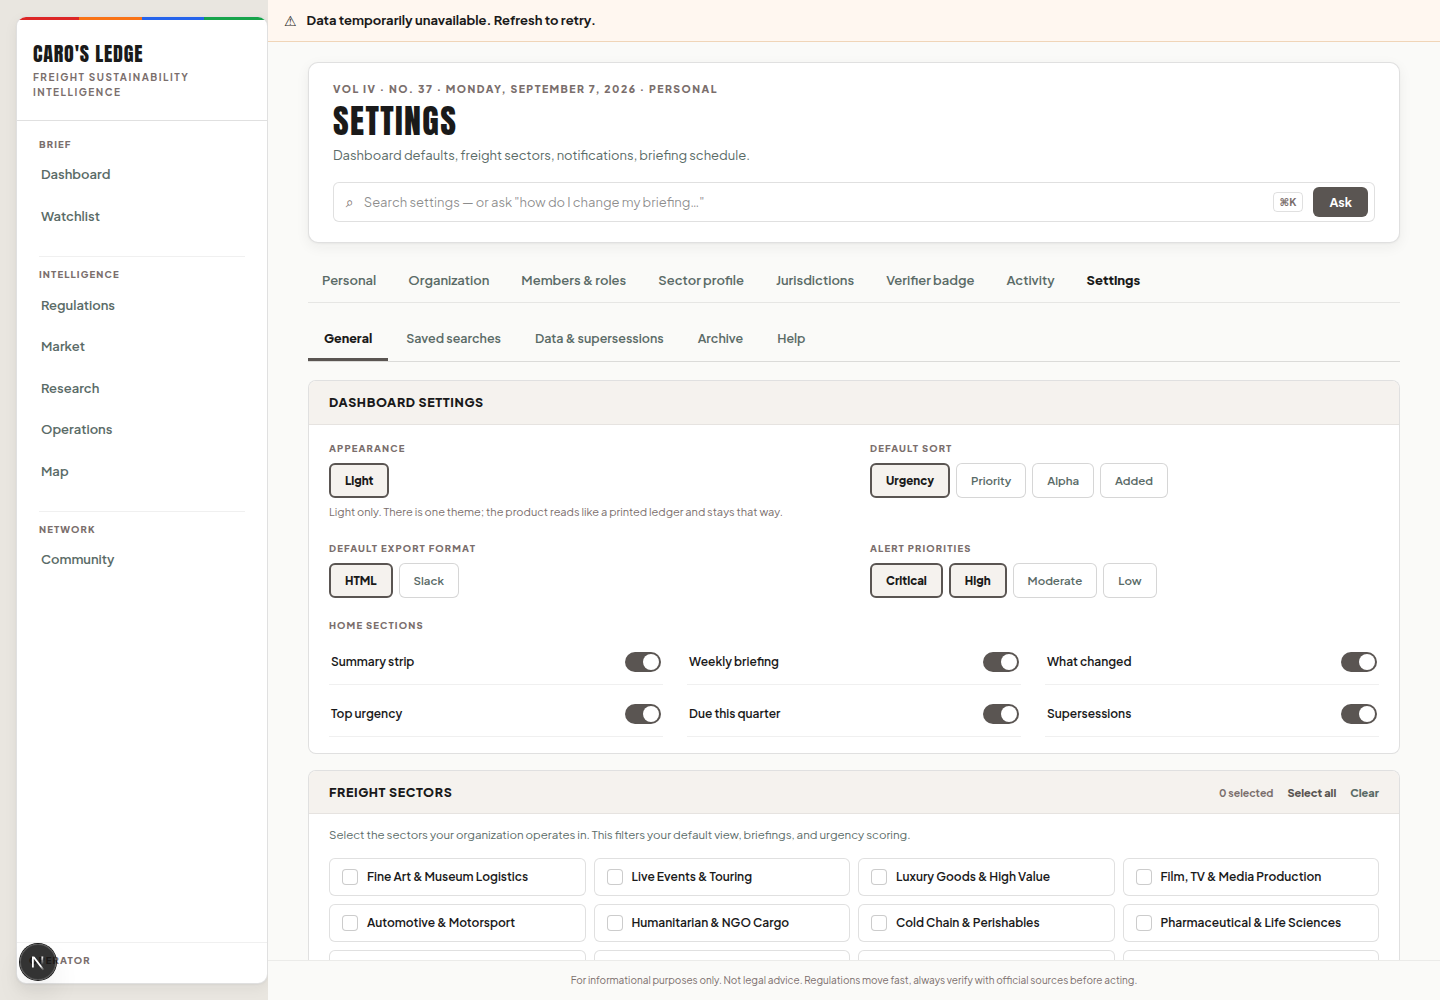
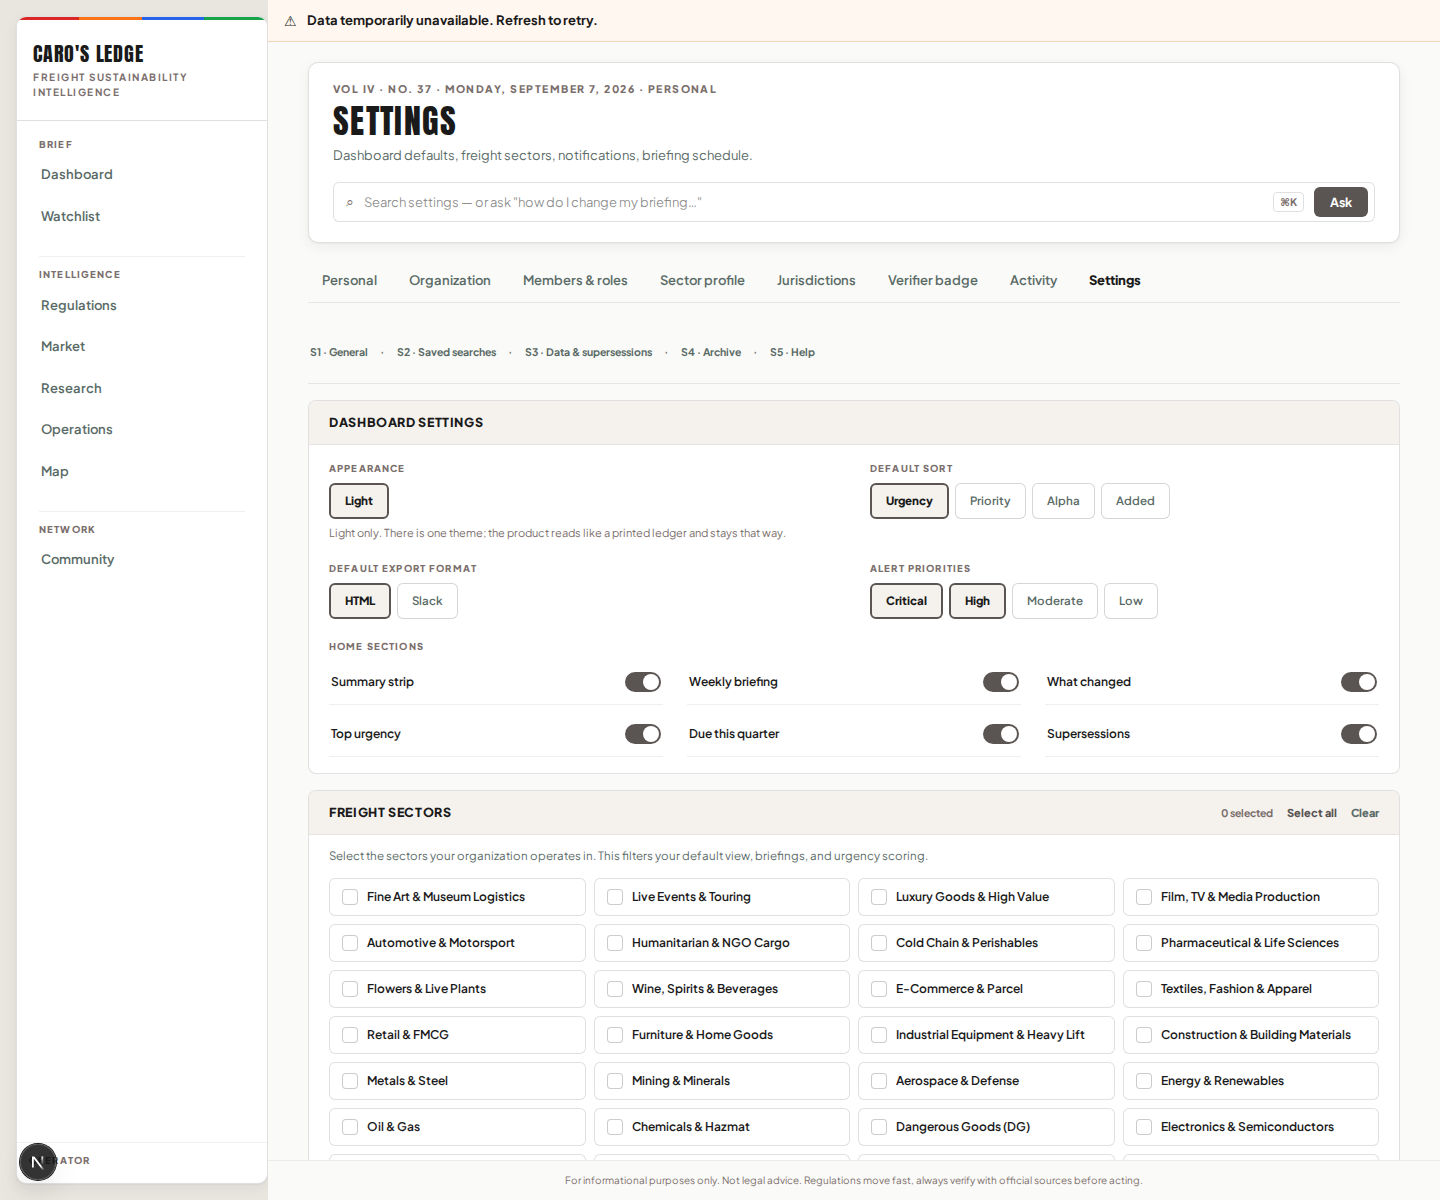
docs: RULINGS fold + R9 settings section-index screenshot
Copies rulings R1-R10 (operator, via Claude Design, 2026-09-07) into
DEVIATION-LOG.md's fold verbatim, marks the superseded "Settings —
General/Saved/Data/Archive/Help" row, and logs the R9 change (SectionIndex
replacing the old sub-nav) with its own deviation: R9's "Archive's viewer
stays a page under Data" / "Help stays a route" clauses describe a route
shape neither the artboard set nor the current app has built, so both stay
inline anchored sections as they were, flagged for an operator ruling.

Re-captured built/15-settings.png at 1440px (next dev, env-only
UI_SCREENSHOT_BYPASS auth bypass, reverted before this commit — verified by
`grep -rn UI_SCREENSHOT_BYPASS src/` returning nothing): shows the sticky
S1..S5 SectionIndex directly under the merged Account tab row, single tab
row on the page, matching R9. Compared against 15-settings.png (the
artboard, which predates R9 and still shows no second-level nav at all) —
the difference is R9 itself, not a build defect.

Claude-Session: https://claude.ai/code/session_011PrexRRmd9zJ3cBeMDJw94

diff --git a/docs/design/handoff-2026-09-06/DEVIATION-LOG.md b/docs/design/handoff-2026-09-06/DEVIATION-LOG.md
@@ -5,6 +5,66 @@ belongs here, not in a page's stylesheet (README "Overview"). Includes cases whe
 the design shows does not exist in the app's data yet and is rendered via the Absence
 convention instead.
 
+## RULINGS (operator, via Claude Design, 2026-09-07)
+
+Design rulings received from the operator (via Claude Design) on 2026-09-07, binding on every UI
+lane. Copied verbatim (per the dispatch that carried them) into this fold.
+
+R1. Auth copy: keep the app's current approved wording inside artboard 16's layout, inputs and
+buttons; the artboard's headline and paragraph are placeholder.
+
+R2. Nav footer: two unlabelled rows below a divider, Account (workspace name right-aligned) and
+Admin (OWNER badge); no 'Operator' heading.
+
+R3. Detail summary depths: two ('Summary | Full brief'), beside the S1..Sn section index; the old
+third depth was the dead span.
+
+R4. Breadcrumb on details: 'VOL IV . NO. 36 . <Surface> / <Jurisdiction> / N of M in <Band>'; the
+last segment is live place-keeping from the list-position contract, not decorative. Command-bar
+placeholder on details is scoped ('Ask about this regulation' / signal / finding / profile).
+
+R5. Detail action row: Export brief (primary ink) . Share . Watch (star filled when watched) . +
+Tag, all visible on every detail header; the ... menu holds only rare and destructive items.
+
+R6. Workspace tags: pill with 6 px square ink dot, #F5F2EE fill, rgba(0,0,0,.14) border, 11.5px/600,
+removable x; shown under the detail title, on the list row second line, as a 'Workspace tags' facet
+group with live counts, and as the source for saved views. The + Tag popover: 280 px, anchored below
+the trigger, left-aligned; white, radius 10, 1px rgba(0,0,0,.12), card shadow, no band rule; 40 px
+input row with the search glyph 15 px #7A6E6C, 13 px text, bottom border rgba(0,0,0,.08); 40 px rows,
+12 px padding, pill + right-aligned muted 11 px count, hover #FAFAF8, applied tags show a check in ink
+instead of the count; max height 320 px scrolling; footer 'Create "<typed>"' 12.5px/600 with the pill
+preview when no exact match, top border rgba(0,0,0,.08); multi-select, stays open, arrows move, Enter
+applies/creates, Esc closes, Backspace on empty input removes the last applied tag; applying updates
+the detail tag row and rail facet counts immediately. Data: migration, workspace-scoped RLS like the
+other workspace tables, tag names unique per workspace case-insensitively, deleting a tag deletes its
+links (never soft-hides).
+
+R7. Features not in the 17 artboards: leave exactly as is and list them; never remove or restyle
+without a ruling. Rulings so far: Regulations row priority retag + Dismiss live in the row's ... menu;
+the Dismissed stash stays as a collapsed disclosure at the card foot; Operations by-state sub-list
+stays; the PERF-12 virtualized remainder stays.
+
+R8. Community room feed: image 12's thread table is the room index, not the room. A thread opens as
+its own page in the standard frame (masthead with breadcrumb Community / <room> / <thread title>,
+content column at <=72ch, rail). Inside it a post is a FactCard: sourced variant when it carries
+citations, dashed inference variant when it does not; verifier sign-off is a tier square plus a
+small-caps attribution line in the card foot (same family as a source's tier, not a new badge); the
+composer is one card at the foot of the thread. The compact table stays exactly as drawn; the feed
+lives one level down. NEEDS AN ARTBOARD (queued by Claude Design): do not build the thread page until
+it arrives; keep CommunityRooms' feed as is meanwhile.
+
+R9. Settings sub-nav: the five second-level items (General / Saved searches / Data & supersessions /
+Archive / Help) become the section index, reusing the sticky S1 . S2 . S3 SectionIndex from the
+detail architecture: a horizontal row of section links directly under the Account tab row,
+left-aligned, active in ink; the five become anchored sections in one scrolling page, not five
+routes. Archive's viewer stays a page under Data; Help stays a route if it already is one (link it,
+do not nest it). One tab row on the page. Can be built now from existing parts (no new component, no
+artboard needed).
+
+R10. Mobile 390 and tablet 1024: not designed; no responsive rules are invented; they arrive as
+artboards (queue: overlays, then mobile 390, then community thread and the settings section index
+artboards).
+
 | Date | Page | Deviation | Reason | Who ruled |
 |---|---|---|---|---|
 | 2026-09-06 | System (0.3 frame) | Nav width built at 252px per README's literal CSS token block, not the ~220px the system-sheet artboard's own annotation prose states ("220px nav card in a 16px gutter... content 1180px max"). | The system sheet's prose numbers do not reconcile with each other either (220+16+1180+300=1716, over the stated 1440 frame) — read as descriptive/rounded annotation, not a literal spec. README's fenced code block ("Nav `252px`, always" + the exact `grid-template-columns` line) is formatted for verbatim lift into theme.css/components and is internally consistent (1440 − 20 − 40 gutters − 300 rail − 28 gap ≈ content column), so it is the followed value. | UI-SYSTEM lane, 2026-09-06 (session decision, not an operator ruling — flag for operator confirmation if the 220px annotation was intended literally) |
@@ -21,7 +81,8 @@ convention instead.
 | 2026-09-07 | Admin (`/admin`) — Ingest tile | 13-admin.png shows "INGEST 4,579" (sample data); built tile sums three real `useAdminAttention` counts (`staged_updates_pending` + `integrity_flags_unresolved` + `platform_integrity_flags_open`) — a different, real number in this environment (0, no DB). | README: "Content is realistic sample data... not fixtures to ship." The built figure is a real, already-live aggregate (no new read) rather than a re-derivation of the mock's specific 4,579. | uiadmin lane, 2026-09-07 |
 | 2026-09-07 | Admin (`/admin`) — Sources/Organizations rows | 13-admin.png's "Sources · Provisional review" and "Organizations" rows show a `ListRow`-style anatomy (band spine, jurisdiction-style leading column, a Tier chip, one `⋯` per row). The pre-existing `SourceHealthDashboard` and `OrganizationsTable` components (real, wired admin functionality — bulk add, tier override, member management, invitations, corpus turns, error tracking, the assumption register) were left as-is: only the page's masthead, counter row, and issues-rail chrome were converted to shared parts this pass. | Full scope: rebuilding two large, functionally rich admin views onto `ListRow` (which has no per-row action-menu content model beyond a generic `overflow` slot, and expects the row's fixed 8-column list-surface grid, not admin's row shapes — tier-override controls, bulk-approve, org member counts) is a real `ListRow` extension or a new admin-row shared part, not a same-pass fix; attempting it under this lane's remaining budget risked breaking real, live admin write-paths (source approve/reject, tier commit, member role/ban) with no way to verify against a real Supabase project in this sandbox (see the no-DB note below). | uiadmin lane, 2026-09-07 — next admin pass: give `ListRow` (or a documented sibling row primitive) an admin row-action variant, then port `SourceHealthDashboard`'s provisional-review table and `OrganizationsTable` onto it. |
 | 2026-09-07 | Account (`/profile`) + Settings (`/settings`) — merged tab row | Built. Retired the pre-existing stacked pair (`AccountMasthead`'s own Profile/Settings tabs over `AccountPrimitives.SubTabBar`'s 7 sub-tabs) for ONE `TabRow` (new shared part, `src/components/ui/TabRow.tsx`) spanning the frame above the two-column grid on both routes, matching 14-account.png/15-settings.png: Personal · Organization · Members & roles · N · Sector profile · N · Jurisdictions · N · Verifier badge · Activity · Settings. `AccountMasthead.tsx` deleted (dead after the swap — nothing else imported it). | Directly instructed ("one tab row spanning the frame ABOVE the two-column grid"); no shared tab-row part existed yet (the base UI-system lane's one page, the dashboard, has none), so this is a new addable shared part, not a page-local fork — both `/profile` and `/settings` consume the same component. | uiadmin lane, 2026-09-07 |
-| 2026-09-07 | Settings (`/settings`) — General/Saved/Data/Archive/Help | 15-settings.png shows only the merged Account tab row plus "Dashboard defaults"/"Freight sectors"/"Notifications" content (== the pre-existing "General" tab's body) — no second-level tab row for Saved searches / Data & supersessions / Archive / Help is visible on the artboard. Built keeps the pre-existing 5-tab `SubTabBar` as a second-level row beneath the merged Account row, so those four real features (saved searches, CSV upload, supersession history, archive, help placeholder) stay reachable. | The artboard depicts no other home for this functionality and CLAUDE.md rule 13 forbids leaving working features orphaned; removing the second tab row would delete reachable UI, not align it to spec. | uiadmin lane, 2026-09-07 — flag for operator: confirm whether Saved/Data/Archive/Help belong under Settings' merged row (as built) or should move elsewhere in the artboard's model. |
+| 2026-09-07 | Settings (`/settings`) — General/Saved/Data/Archive/Help | SUPERSEDED by ruling R9 (see the row below) — kept here for history. Original text: 15-settings.png shows only the merged Account tab row plus "Dashboard defaults"/"Freight sectors"/"Notifications" content (== the pre-existing "General" tab's body) — no second-level tab row for Saved searches / Data & supersessions / Archive / Help is visible on the artboard. Built keeps the pre-existing 5-tab `SubTabBar` as a second-level row beneath the merged Account row, so those four real features (saved searches, CSV upload, supersession history, archive, help placeholder) stay reachable. | The artboard depicts no other home for this functionality and CLAUDE.md rule 13 forbids leaving working features orphaned; removing the second tab row would delete reachable UI, not align it to spec. | uiadmin lane, 2026-09-07 — flag resolved by R9 below. |
+| 2026-09-07 | Settings (`/settings`) — sub-nav replaced with SectionIndex (ruling R9) | Per R9, the second-level `SubTabBar` (General / Saved searches / Data & supersessions / Archive / Help) is retired. Cherry-picked lane uidetails-2026-09-06's commit `34b476c5` (`src/components/detail/DetailShell.tsx`, `SectionIndex`) onto this branch rather than fork a copy. `SettingsPage.tsx` now renders all five bodies inline, always mounted, as anchored sections (`#general #saved #data #archive #help`) under one sticky `S1 . S2 . S3 . S4 . S5` `SectionIndex` directly below the merged Account tab row — matching R9's "horizontal row of section links directly under the Account tab row, left-aligned … one scrolling page, not five routes" exactly. Removed the old `?tab`/hash sub-nav mechanism (`tab` state, `LEGACY_HASH_ALIASES`, `onTabClick`); `/settings#general` (linked twice from `UserProfilePage.tsx`) still resolves because `general` survives as the section's anchor id. Archive and Help stay exactly where they were (no separate route exists for either today, and R9 only requires linking Help "if it already is one" — it is not); this is logged as a deviation from R9's own "Archive's viewer stays a page under Data" / "Help stays a route" clauses, which describe a shape neither this artboard set nor the current app has built yet. | R9 is explicit that the five become anchored sections reusing `SectionIndex`, not that Archive/Help move to new routes this lane did not otherwise need to invent; inventing routes/pages for either under this lane's scope (ruling R9 only) would be new information architecture with no artboard behind it. | uiadmin2 lane, 2026-09-07 — flag for operator: confirm Archive staying inline (vs. becoming its own page linked from Data) and whether Help should get a real route once one exists. |
 | 2026-09-07 | Account (`/profile`) — stat blocks vs. rail | 14-account.png shows four `StatBlock`s (Sectors followed / Home jurisdictions / Member since / Plan) stacked 2×2 **inside the persistent right rail**, visible on every tab. Built keeps the pre-existing placement: a full-width 4-across stat-block strip above the tab body, present only because it was already page-level (not per-tab), not moved into a rail card. The Admin/Quick-links rail cards from the artboard are not built. | Hoisting the stat strip into a true persistent rail plus adding Admin/Quick-links cards is a page-shape change beyond a component swap (every one of the 7 profile sub-tabs currently owns its own body/rail combination, e.g. `PersonalTab`'s own two-column grid) and risked breaking those tab bodies under this lane's remaining budget. The swap actually made (`StatTile` → shared `StatBlock`, `tone="critical"` extension) removed the page-local duplicate component without touching that structure. | uiadmin lane, 2026-09-07 — next pass: hoist a persistent rail (stat blocks + Admin card + Quick links) to the `/profile` page level, above/beside the per-tab body, matching 14-account.png exactly. |
 | 2026-09-07 | Screenshot capture — no live Supabase project | This sandbox has no configured `NEXT_PUBLIC_SUPABASE_URL`/`ANON_KEY` (`.env.local` absent, per instruction, and no project env is injected). `next build --webpack` succeeds regardless (every data path here fails soft to `[]`/`0`/skeleton), but `next dev` requires a syntactically-valid URL just to construct the proxy's Supabase client, so screenshots were taken with a placeholder URL (`https://placeholder.supabase.co`) exported only for the `next dev` process — never written to a file, never committed. All three pages render their real, honest empty/error states (StateNote/SystemErrorBanner "data unavailable", stat blocks reading 0) rather than the mock's populated sample data — expected given no DB, not a defect. | Matches the UI-SYSTEM lane's own documented environment limitation (its DEVIATION-LOG "Gate: `next build --webpack`" row) — this lane's sandbox has the same no-network-egress-to-a-real-project constraint. | uiadmin lane, 2026-09-07 — needs a follow-up run of these three screenshots against a real (or branch) Supabase project with seeded data before pixel-comparing populated states. |
 | 2026-09-07 | Screenshot capture — auth bypass method | To render `/admin`, `/profile`, `/settings` (all auth-gated: `requirePlatformAdmin`, or a `redirect` on no session) for a local-only Playwright capture, this lane added a temporary `process.env.UI_SCREENSHOT_BYPASS === "1"` short-circuit in `src/proxy.ts` (the auth middleware) and in the three page files, exported the env var only for the `next dev` process used to take the three `built/*.png` screenshots, then reverted all four files (verified by `grep -rn "UI_SCREENSHOT_BYPASS" src/` returning nothing) before running the final gates and this commit. Same approach as the UI-SYSTEM lane's commit 2aa17758 (dashboard screenshot), which also left no bypass code in its committed diff. | Directed by the dispatch ("the same env-only auth bypass approach the UI-SYSTEM lane used and fully reverted"). | uiadmin lane, 2026-09-07 |
